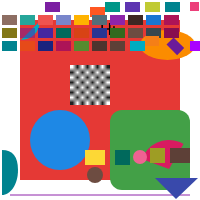
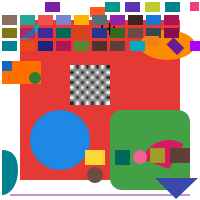
Give MODIFIER_BACKGROUND real semantic rendering via content-bounds inference
This renderer executes a flat opcode list with no measure/layout pass,
so a container's real bounds — what background()/border()/clip-to-bounds
need — aren't available anywhere. This is the first modifier in the
alternating layout-engine track to work around that gap: rather than
requiring real layout, a container's "bounds" are inferred as the tight
bounding box of every draw call it directly contains.

Mechanically, this builds on the existing scope-stack (used previously
for MODIFIER_OFFSET/VISIBILITY/GRAPHICS_LAYER's cleanup opcodes) but
required fixing a latent gap in it: regular draw opcodes are appended
straight to the flat `opcodes` list the instant they're parsed, never
buffered per-scope, so a scope frame's own opcode list was always empty
for anything but attachToTopScope's cleanup ops — MODIFIER_BACKGROUND
would have silently no-opped against it. Fixed by having ScopeFrame
track `startIndex` (the `opcodes` size when the scope was pushed)
instead: at CONTAINER_END, `opcodes.subList(startIndex, opcodes.size)`
is exactly this container's content, in parse order, regardless of how
much internal nesting it contains.

OP_MODIFIER_BACKGROUND now decodes properly (previously 9 raw floats
were skipped outright: 4 corner radii, then r/g/b/a as normalized
0f..1f channels, then a trailing float) and stores the color on the
top scope frame. CONTAINER_END computes the content bounding box via a
new contentBounds() walking DrawRect/DrawRoundRect/DrawOval/DrawArc/
[…]

Changed region(s): [[0.0, 0.3, 0.21, 0.42]]

diff --git a/src/commonMain/kotlin/com/example/remotecompose/parser/RealRemoteComposeParser.kt b/src/commonMain/kotlin/com/example/remotecompose/parser/RealRemoteComposeParser.kt
@@ -568,18 +568,84 @@ object RealRemoteComposeParser {
         // LAYOUT_CONTENT children scope, LAYOUT_CANVAS_CONTENT, and MODIFIER_CLICK/MULTI_CLICK/
         // TOUCH_*'s nested action lists) is closed by exactly one generic CONTAINER_END, and these
         // scopes nest strictly LIFO in the real byte stream. This stack lets a modifier that needs
-        // real semantic effect (so far: MODIFIER_OFFSET, MODIFIER_VISIBILITY) push cleanup
-        // [Opcode]s onto its *container's own* scope (always the top of this stack at the point the
-        // modifier is parsed, since any nested action-list scope from an earlier modifier in the
-        // same list is always fully opened-and-closed before the next modifier is written) so they
-        // fire when that scope's matching CONTAINER_END is reached — without needing to build a
-        // real component tree.
-        val scopeStack = mutableListOf<MutableList<Opcode>>()
+        // real semantic effect (so far: MODIFIER_OFFSET, MODIFIER_VISIBILITY, MODIFIER_BACKGROUND)
+        // push cleanup [Opcode]s — or, for MODIFIER_BACKGROUND, a pending fill color — onto its
+        // *container's own* scope (always the top of this stack at the point the modifier is
+        // parsed, since any nested action-list scope from an earlier modifier in the same list is
+        // always fully opened-and-closed before the next modifier is written) so they fire/resolve
+        // when that scope's matching CONTAINER_END is reached — without needing to build a real
+        // component tree.
+        // Regular draw opcodes are appended straight to [opcodes] the moment they're parsed, not
+        // buffered per-scope — so a [ScopeFrame] only tracks (a) [startIndex], the [opcodes] size
+        // at the moment this scope was pushed (everything from there to the current size when this
+        // scope's CONTAINER_END fires is "this container's content", used by MODIFIER_BACKGROUND's
+        // bounds inference below), and (b) [cleanupOpcodes], ops queued by attachToTopScope to be
+        // appended *after* that content once the scope closes (MODIFIER_OFFSET/VISIBILITY/
+        // GRAPHICS_LAYER's MatrixRestore).
+        class ScopeFrame(val startIndex: Int) {
+            val cleanupOpcodes = mutableListOf<Opcode>()
+            var backgroundColor: Color? = null
+        }
+        val scopeStack = mutableListOf<ScopeFrame>()
         fun pushScope() {
-            scopeStack.add(mutableListOf())
+            scopeStack.add(ScopeFrame(opcodes.size))
         }
         fun attachToTopScope(op: Opcode) {
-            scopeStack.lastOrNull()?.add(op)
+            scopeStack.lastOrNull()?.cleanupOpcodes?.add(op)
+        }
+
+        /**
+         * This renderer has no measure/layout pass, so a container's "bounds" for
+         * [OP_MODIFIER_BACKGROUND] are inferred as the tight bounding box of every draw call
+         * inside it — an approximation that ignores padding/insets around the content, but a real
+         * visual improvement over not drawing a background at all. Returns null if [ops] contains
+         * no boundable draw opcode.
+         */
+        fun contentBounds(ops: List<Opcode>): FloatArray? {
+            var left = Float.POSITIVE_INFINITY
+            var top = Float.POSITIVE_INFINITY
+            var right = Float.NEGATIVE_INFINITY
+            var bottom = Float.NEGATIVE_INFINITY
+            fun expand(l: Float, t: Float, r: Float, b: Float) {
+                if (l < left) left = l
+                if (t < top) top = t
+                if (r > right) right = r
+                if (b > bottom) bottom = b
+            }
+            fun expandPoint(x: Float, y: Float) = expand(x, y, x, y)
+            for (op in ops) {
+                when (op) {
+                    is Opcode.DrawRect -> expand(op.left, op.top, op.right, op.bottom)
+                    is Opcode.DrawRoundRect -> expand(op.left, op.top, op.right, op.bottom)
+                    is Opcode.DrawOval -> expand(op.left, op.top, op.right, op.bottom)
+                    is Opcode.DrawArc -> expand(op.left, op.top, op.right, op.bottom)
+                    is Opcode.DrawBitmap -> expand(op.left, op.top, op.right, op.bottom)
+                    is Opcode.DrawCircle -> expand(
+                        op.centerX - op.radius, op.centerY - op.radius,
+                        op.centerX + op.radius, op.centerY + op.radius,
+                    )
+                    is Opcode.DrawLine -> expand(
+                        minOf(op.x1, op.x2), minOf(op.y1, op.y2),
+                        maxOf(op.x1, op.x2), maxOf(op.y1, op.y2),
+                    )
+                    is Opcode.DrawPath -> for (command in op.commands) when (command) {
+                        is PathCommand.MoveTo -> expandPoint(command.x, command.y)
+                        is PathCommand.LineTo -> expandPoint(command.x, command.y)
+                        is PathCommand.QuadraticTo -> {
+                            expandPoint(command.x1, command.y1)
+                            expandPoint(command.x2, command.y2)
+                        }
+                        is PathCommand.CubicTo -> {
+                            expandPoint(command.x1, command.y1)
+                            expandPoint(command.x2, command.y2)
+                            expandPoint(command.x3, command.y3)
+                        }
+                        PathCommand.Close -> Unit
+                    }
+                    else -> Unit
+                }
+            }
+            return if (left.isFinite()) floatArrayOf(left, top, right, bottom) else null
         }
 
         while (reader.hasRemaining()) {
@@ -835,12 +901,30 @@ object RealRemoteComposeParser {
                     reader.readFloat32() // value
                 }
 
-                OP_CONTAINER_END ->
-                    // Pop this scope's deferred cleanup (e.g. a MatrixRestore queued by
-                    // MODIFIER_OFFSET/MODIFIER_VISIBILITY on the container this end belongs to)
-                    // and splice it into the flat opcode stream right here, closing whatever that
-                    // modifier opened around this container's children.
-                    scopeStack.removeLastOrNull()?.let { opcodes.addAll(it) }
+                OP_CONTAINER_END -> {
+                    // Close this scope: if it carried a MODIFIER_BACKGROUND, insert an inferred
+                    // background DrawRect *before* this container's own content (everything
+                    // appended to [opcodes] since [ScopeFrame.startIndex]); then append this
+                    // scope's deferred cleanup (e.g. a MatrixRestore queued by MODIFIER_OFFSET/
+                    // MODIFIER_VISIBILITY/MODIFIER_GRAPHICS_LAYER) right after that content,
+                    // closing whatever that modifier opened around it.
+                    val frame = scopeStack.removeLastOrNull()
+                    if (frame != null) {
+                        val bg = frame.backgroundColor
+                        if (bg != null) {
+                            contentBounds(opcodes.subList(frame.startIndex, opcodes.size))?.let { bounds ->
+                                opcodes.add(
+                                    frame.startIndex,
+                                    Opcode.DrawRect(
+                                        bounds[0], bounds[1], bounds[2], bounds[3],
+                                        PaintStyle(bg, PaintStyleKind.FILL),
+                                    ),
+                                )
+                            }
+                        }
+                        opcodes.addAll(frame.cleanupOpcodes)
+                    }
+                }
 
                 OP_MODIFIER_CLICK -> pushScope() // no payload — opens a nested action list, closed by its own CONTAINER_END
 
@@ -848,7 +932,15 @@ object RealRemoteComposeParser {
 
                 OP_MODIFIER_PADDING -> repeat(4) { reader.readFloat32() }
 
-                OP_MODIFIER_BACKGROUND -> repeat(9) { reader.readFloat32() }
+                OP_MODIFIER_BACKGROUND -> {
+                    repeat(4) { reader.readFloat32() } // corner radii — not modeled (no rounded-fill Opcode variant used here)
+                    val r = reader.readFloat32()
+                    val g = reader.readFloat32()
+                    val b = reader.readFloat32()
+                    val a = reader.readFloat32()
+                    reader.readFloat32() // trailing float — role unconfirmed
+                    scopeStack.lastOrNull()?.backgroundColor = Color(r, g, b, a)
+                }
 
                 OP_MODIFIER_VISIBILITY -> {
                     // Component.Visibility: GONE=0, VISIBLE=1, INVISIBLE=2. Anything but VISIBLE

diff --git a/src/commonMain/kotlin/com/example/remotecompose/demo/SamplePayload.kt b/src/commonMain/kotlin/com/example/remotecompose/demo/SamplePayload.kt
@@ -49,7 +49,12 @@ import kotlin.io.encoding.ExperimentalEncodingApi
  * `writer.save()`/`writer.scale(2f, 2f, 145f, 46f)`/`writer.restore()`, a purple rect drawn after a
  * raw `writer.save()`/`writer.rotate(45f, 175f, 46f)`/`writer.restore()`, and a magenta rect drawn
  * oversized then clipped by a raw `writer.save()`/`writer.clipRect(190f, 41f, 205f, 51f)`/
- * `writer.restore()`), not by anything in this codebase. Shared by every platform demo entry point
+ * `writer.restore()`, and a blue rect plus a separate green circle wrapped in a
+ * `startBox`/`endBox` carrying a `background(0xFFFF6F00)` modifier — with a gap between the two
+ * shapes deliberately left unpainted by either, so an orange background rect inferred from their
+ * combined bounding box (this renderer has no measure/layout pass, so real content-position
+ * knowledge is the closest available substitute) is visually distinguishable from either shape's
+ * own fill), not by anything in this codebase. Shared by every platform demo entry point
  * (iOS, Android) so they
  * render byte-identical input — the point of the cross-platform comparison is to catch *rendering*
  * differences, not to accidentally compare two different payloads.
@@ -97,6 +102,8 @@ val SAMPLE_RC_BYTES: ByteArray by lazy {
[6 lines of base64/hex data omitted]
+            "AABAwAAA1tY="
     )
 }

diff --git a/tools/rc-writer/src/main/kotlin/Main.kt b/tools/rc-writer/src/main/kotlin/Main.kt
@@ -404,6 +404,13 @@ fun main() {
     writer.drawRect(185f, 36f, 210f, 56f)
     writer.restore()
 
+    writer.startBox(RecordingModifier().background(0xFFFF6F00.toInt()), 0, 0)
+    writer.getRcPaint().setColor(0xFF1565C0.toInt()).commit()
+    writer.drawRect(2f, 61f, 12f, 71f)
+    writer.getRcPaint().setColor(0xFF2E7D32.toInt()).commit()
+    writer.drawCircle(35f, 78f, 6f)
+    writer.endBox()
+
     val bytes = writer.encodeToByteArray()
     File("sample.rc").writeBytes(bytes)
     println("wrote ${bytes.size} bytes to sample.rc")
